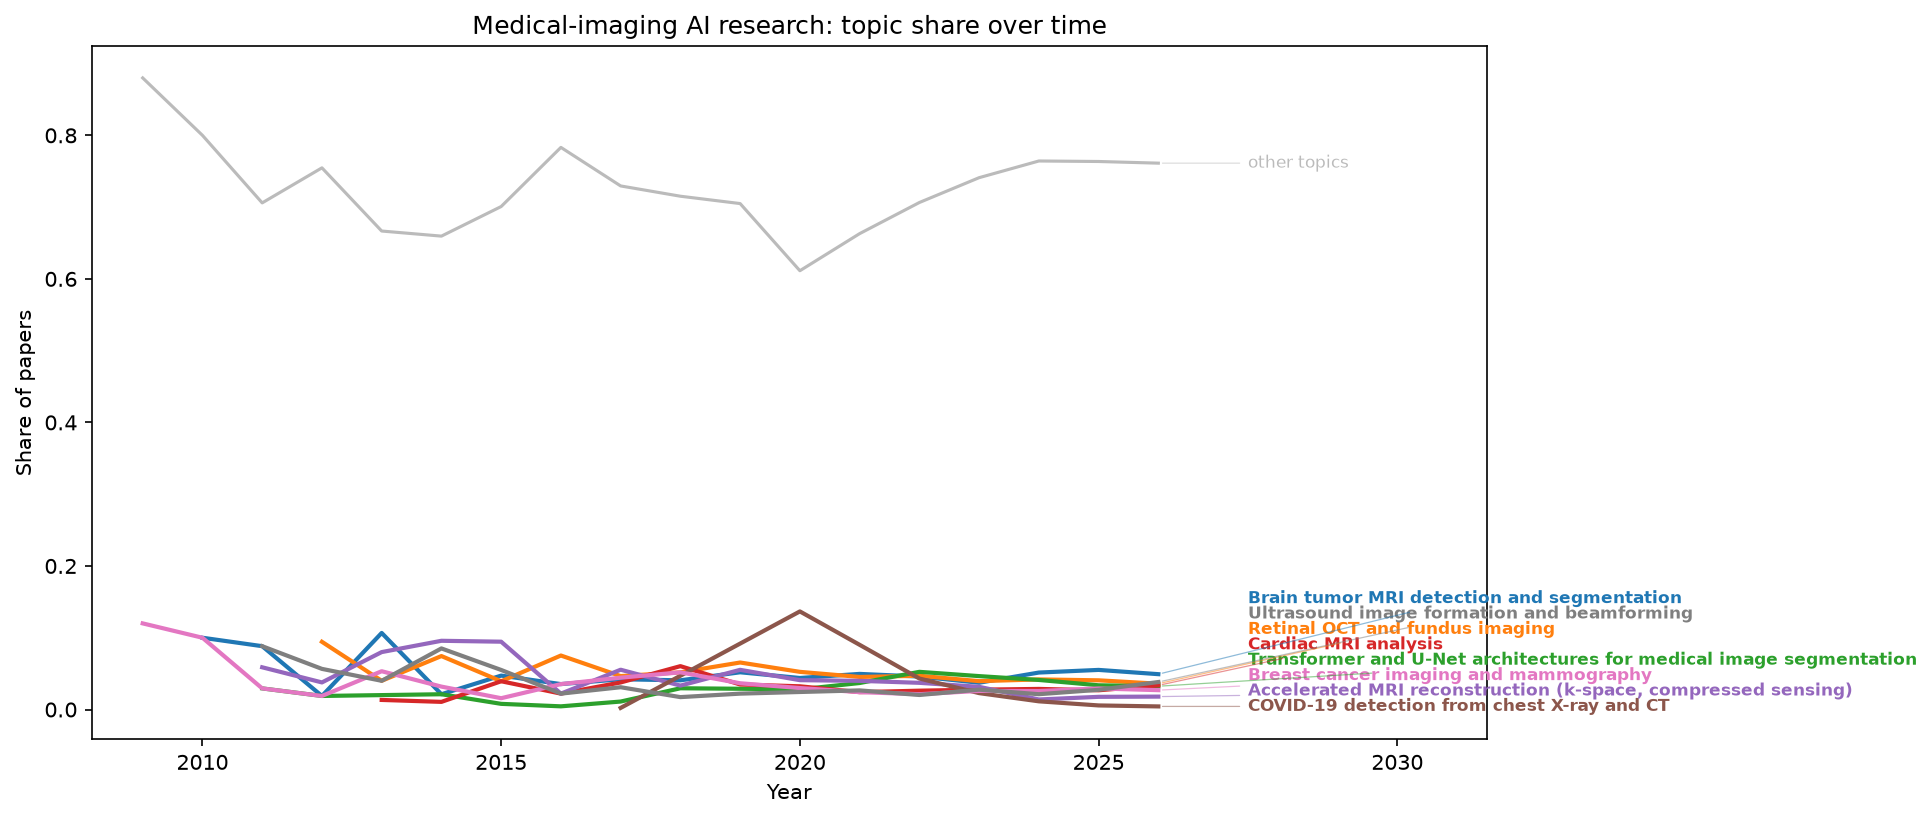
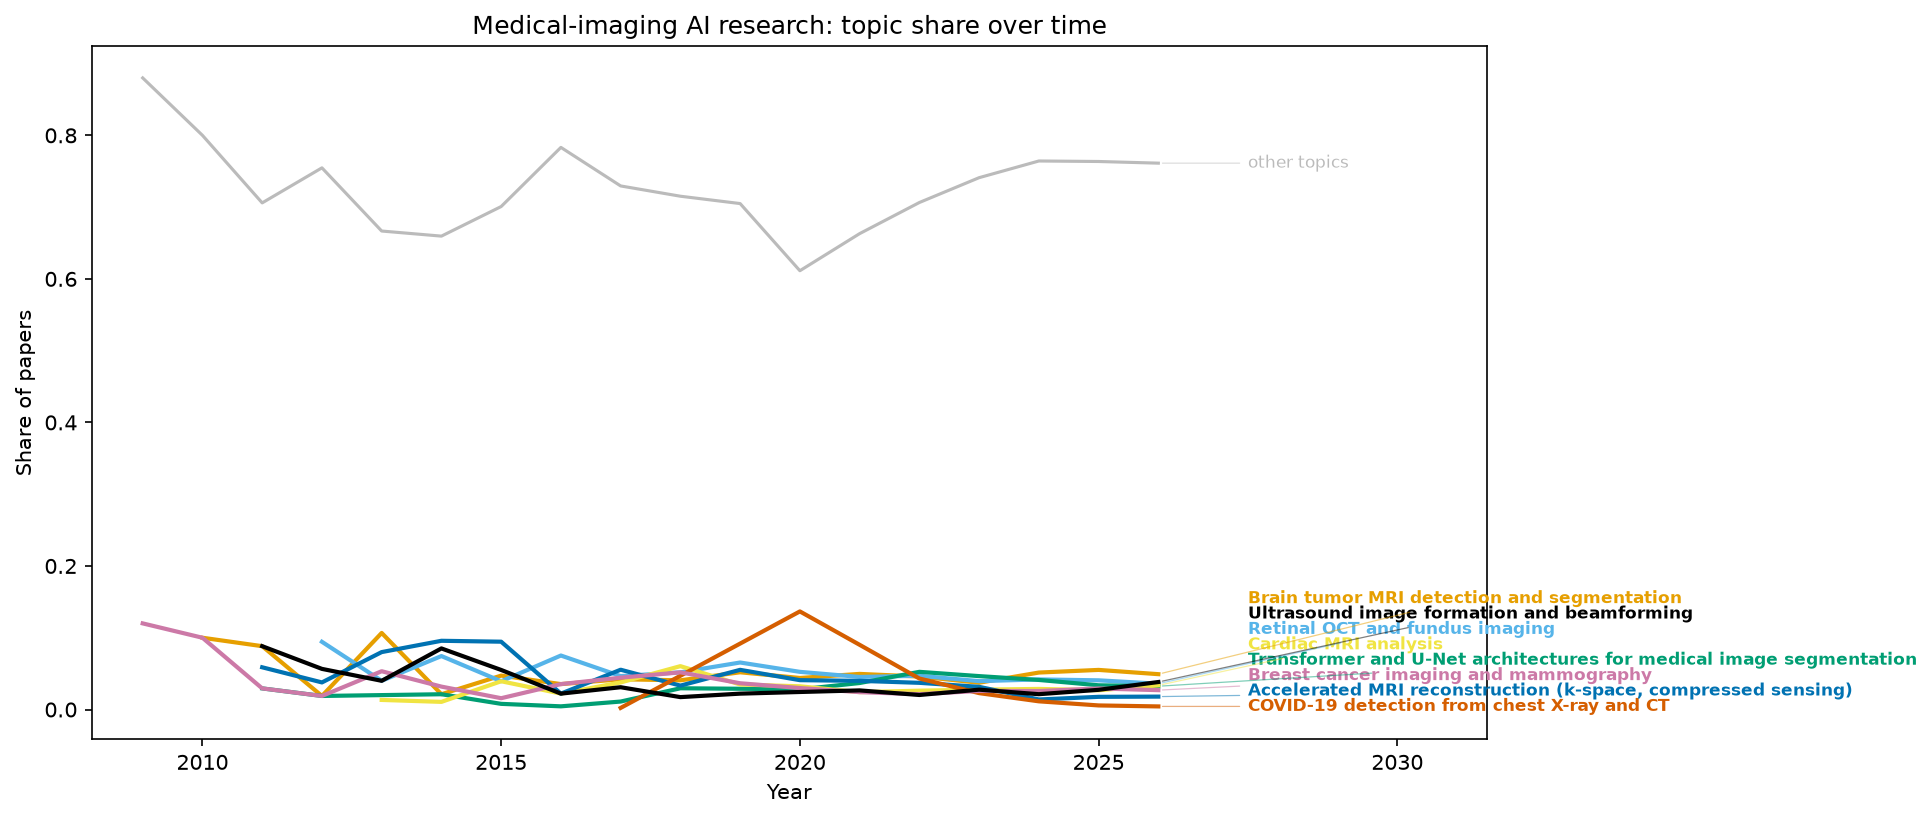
Switch chart highlight colors to a colorblind-safe palette, add descriptive alt text
tab10 is not colorblind-safe (its red/green pair is hard to distinguish under red-green
color vision deficiency); replaced with the Okabe-Ito 8-color qualitative palette, the
standard reference for this. Capped the topic map's highlighted-topic count at 8 (was 10)
so every highlight gets a guaranteed-distinct color instead of two colors repeating.
Markdown image alt text now names the actual topics shown instead of a generic caption.

Changed region(s): [[0.0932, 0.7021, 0.9938, 0.8852], [0.4037, 0.7326, 0.4348, 0.7631]]

diff --git a/src/imaging_ai_atlas/story/plots.py b/src/imaging_ai_atlas/story/plots.py
@@ -14,8 +14,28 @@ import matplotlib.pyplot as plt
 # else, direct labels instead of a legend (a legend forces the reader to look back and
 # forth; a label placed right at the data point doesn't), no interactivity in static
 # figures since there's no hover affordance to add information through.
-_HIGHLIGHT_CMAP = plt.get_cmap("tab10")
+#
+# Okabe & Ito's 8-colour qualitative palette (2008, https://jfly.uni-koeln.de/color/) -
+# chosen over matplotlib's default tab10 because tab10 is not colorblind-safe (its
+# red/green pair is hard to distinguish under red-green color vision deficiency); Okabe-Ito
+# is the standard reference palette for this. 8 colors caps how many topics either chart
+# can highlight at once with a guaranteed-distinct color (see `n_highlighted` defaults
+# below) - cycling past 8 would silently repeat a color across two different topics.
+_HIGHLIGHT_COLORS = [
+    "#E69F00",  # orange
+    "#56B4E9",  # sky blue
+    "#009E73",  # bluish green
+    "#F0E442",  # yellow
+    "#0072B2",  # blue
+    "#D55E00",  # vermillion
+    "#CC79A7",  # reddish purple
+    "#000000",  # black
+]
 _GREY = "#bbbbbb"
+
+
+def _highlight_color(i: int) -> str:
+    return _HIGHLIGHT_COLORS[i % len(_HIGHLIGHT_COLORS)]
 
 
 def _spread_labels(
@@ -46,7 +66,7 @@ def plot_topic_map(
     topics: list[int],
     topic_labels: dict[int, str],
     save_path: Path,
-    n_highlighted: int = 10,
+    n_highlighted: int = 8,
 ) -> None:
     """2D scatter of every document, colored by its topic for the `n_highlighted` largest
     topics (direct-labeled near each topic's centroid, nudged apart where clusters sit
@@ -79,7 +99,7 @@ def plot_topic_map(
 
     for i, topic_id in enumerate(highlighted):
         mask = topics_arr == topic_id
-        color = _HIGHLIGHT_CMAP(i % _HIGHLIGHT_CMAP.N)
+        color = _highlight_color(i)
         ax.scatter(coords[mask, 0], coords[mask, 1], c=[color], s=6, alpha=0.8, linewidths=0)
         label = topic_labels.get(topic_id, f"Topic {topic_id}")
         cx, cy = centroids[i]
@@ -155,7 +175,7 @@ def plot_topic_dynamics(
     other_shares = [other_by_year[y] for y in other_years]
     ax.plot(other_years, other_shares, color=_GREY, linewidth=1.5)
 
-    entries: list[tuple[str | tuple[float, ...], str, float, float]] = []
+    entries: list[tuple[str, str, float, float]] = []
     if other_years:
         entries.append((_GREY, "other topics", other_years[-1], other_shares[-1]))
 
@@ -165,7 +185,7 @@ def plot_topic_dynamics(
         years = [p[0] for p in points]
         shares = [p[1] for p in points]
         all_years.extend(years)
-        color = _HIGHLIGHT_CMAP(i % _HIGHLIGHT_CMAP.N)
+        color = _highlight_color(i)
         ax.plot(years, shares, color=color, linewidth=2)
         label = topic_labels.get(topic_id, f"Topic {topic_id}")
         entries.append((color, label, years[-1], shares[-1]))

diff --git a/reports/report.md b/reports/report.md
@@ -50,7 +50,11 @@ topics with 81.2% outliers.
 
 ## 4. Themes
 
-![Topic map](figures/topic_map.png)
+![2D UMAP scatter plot of all 30,872 filtered papers, with the 8 largest topics colored
+and direct-labeled (brain tumor MRI, retinal OCT/fundus imaging, transformer/U-Net
+segmentation architectures, cardiac MRI, accelerated MRI reconstruction, breast
+cancer/mammography, COVID-19 chest X-ray/CT, and ultrasound image formation), and every
+other paper shown in grey](figures/topic_map.png)
 
 30 of the largest topics were human-reviewed for coherence; all 30 were marked coherent,
 covering themes including brain tumor MRI, retinal OCT/fundus imaging, cardiac MRI, breast
@@ -79,7 +83,11 @@ The baseline filter rule passes 30,872 of 3,233,527 papers (~1.0% of all of arXi
 
 ## 6. Shifts
 
-![Topic dynamics](figures/topic_dynamics.png)
+![Line chart of each of the 8 largest topics' share of the corpus by year (1997-2026,
+years with fewer than 20 papers omitted): brain tumor MRI, retinal OCT/fundus imaging,
+transformer/U-Net segmentation architectures, cardiac MRI, accelerated MRI reconstruction,
+COVID-19 chest X-ray/CT, breast cancer/mammography, and ultrasound image formation, plus a
+grey line for all other topics combined](figures/topic_dynamics.png)
 
 Per-year topic share was bootstrapped (1,000 resamples within each year) to put a
 confidence interval on each of the 30 coherent topics' trend, ranked by the slope of

diff --git a/README.md b/README.md
@@ -37,7 +37,9 @@ Exploratory analysis of each stage's output lives in `notebooks/01_eda.ipynb`.
 
 ## So what?
 
-![Topic map](reports/figures/topic_map.png)
+![2D UMAP scatter plot of the filtered medical-imaging-AI corpus, with its 8 largest
+research themes colored and labeled and every other paper shown in
+grey](reports/figures/topic_map.png)
 
 The full write-up - corpus size, data-quality findings, why this embedding and topic model
 were chosen, the 30 human-reviewed themes, filter precision/recall, and which themes are
